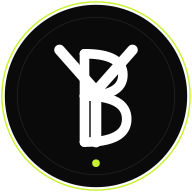
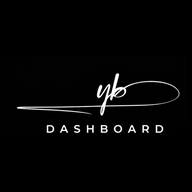
Add files via upload

diff --git a/sw.js b/sw.js
@@ -17,7 +17,7 @@
 // To force every client to upgrade: bump CACHE_VERSION below.
 // ════════════════════════════════════════════════════════════════════
 
-const CACHE_VERSION = 'v141v';
+const CACHE_VERSION = 'v141w';
 const SHELL_CACHE   = 'my-dashboard-shell-' + CACHE_VERSION;
 const CDN_CACHE     = 'my-dashboard-cdn-'   + CACHE_VERSION;
 